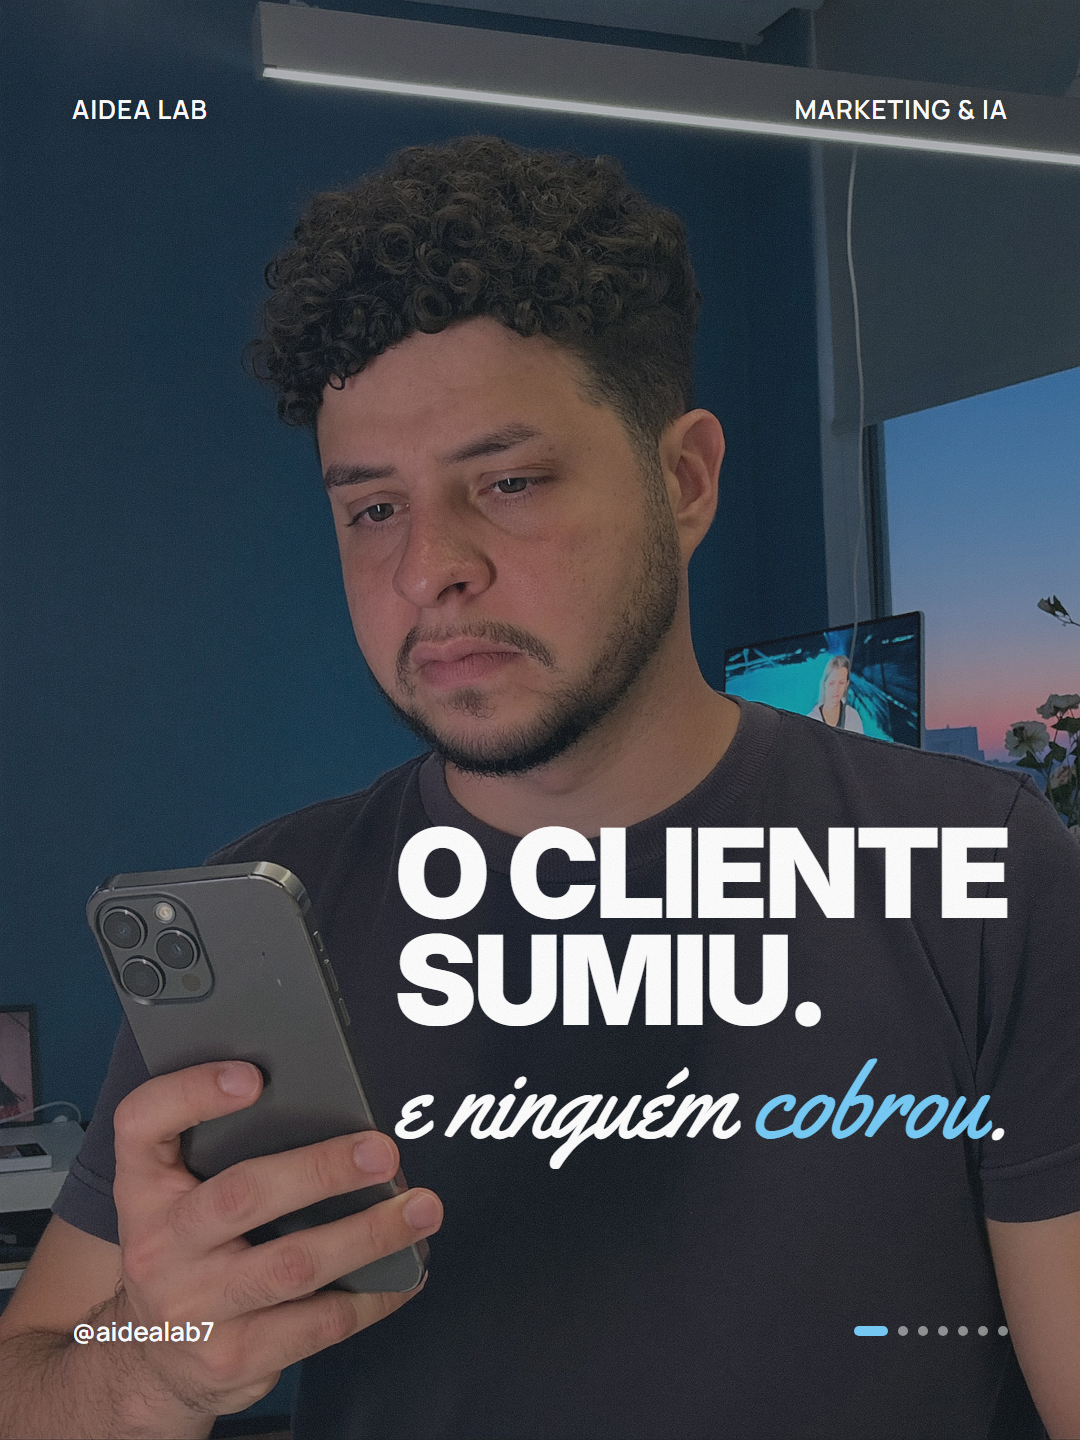
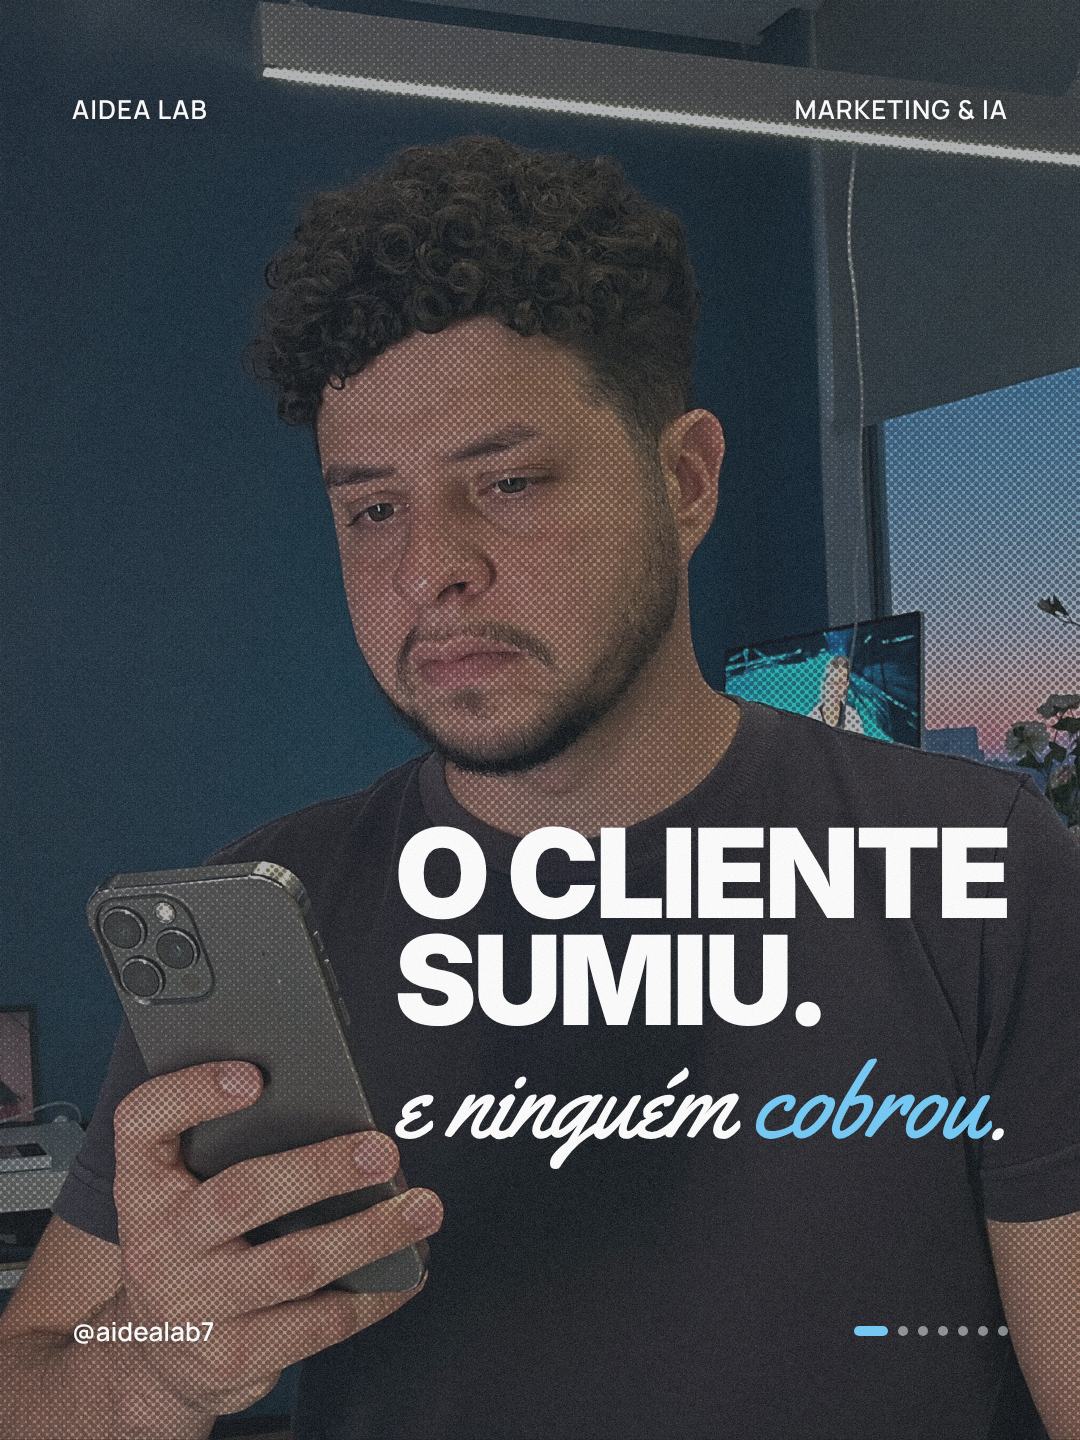
feat(aidealab): textura só na foto (hook halftone, CTA cloth), texto limpo
- motor/textura_foto.py: halftone e cloth (assets/pano.png em soft-light 55%, igual à
  engine otalogia); aplicar() na foto/recorte e aplicar_slide() com máscara de texto
  para slides já prontos
- render.py: "textura_foto" do tema aplicada na imagem e no recorte antes do texto
  (não mais no slide inteiro); tema aidealab: hook halftone, CTA cloth
- sync_fila_drive.py: aplica com máscara nos aprovados da FILA; pula o legado
  "halftone" (slide inteiro), que o workflow textura-foto-drive.yml corrige
  recuperando a revisão limpa no histórico do Drive (FILA e 04) e a fila do repo
- carrosséis do repo re-renderizados (capa e CTA)

Claude-Session: https://claude.ai/code/session_012KyAE6tAMb32gBy6Q61w6r

diff --git a/agente aidealab/automation/cloud/textura_foto_drive.py b/agente aidealab/automation/cloud/textura_foto_drive.py
@@ -1,0 +1,122 @@
+"""Refaz a textura do hook e do CTA nas pastas de 06-Aprovados-para-Postar/FILA e de 04-Carrosseis (aidealab), só na foto.
+
+Para workflow textura-foto-drive.yml (GitHub Actions, credenciais do Drive nos secrets). Por pasta:
+- metadata com "textura_foto" -> já feita, pula.
+- metadata com o legado "halftone": true (halftone no slide inteiro, texto junto) -> baixa do histórico do Drive a
+  última revisão do 1º e do último slide de antes da marca (modifiedTime do metadata.json - 5 min = versão limpa).
+- sem marca -> usa o arquivo atual.
+Rascunho de 04 que existe em clientes/aidealab/carrosseis/<slug>/png (renderizado com a textura_foto) sobe o PNG do
+repo. Senão aplica textura_foto.aplicar_slide (texto protegido por máscara) conforme "textura_foto" do tema, sobe como nova
+revisão do mesmo arquivo e grava "textura_foto" no metadata. A mesma imagem vai para a cópia na fila do repo
+(queue/FILA-SEMANA-1/02-carrossel/*, casada por carousel_id), que o workflow commita.
+Uso: textura_foto_drive.py [--dry-run]
+"""
+import io
+import json
+import sys
+import tempfile
+from datetime import datetime, timedelta
+from pathlib import Path
+
+AQUI = Path(__file__).resolve().parent
+REPO = AQUI.parents[2]
+sys.path.insert(0, str(AQUI))
+sys.path.insert(0, str(REPO / "motor"))
+from drive_helper import get_service  # noqa: E402
+from googleapiclient.http import MediaFileUpload, MediaIoBaseDownload  # noqa: E402
+from PIL import Image  # noqa: E402
+from textura_foto import aplicar_slide  # noqa: E402
+from upload_carrosseis import achar, filhos  # noqa: E402
+
+TEMA = REPO / "agente aidealab" / "clientes" / "aidealab" / "design-system" / "tema" / "tema.json"
+RAIZ = REPO / "agente aidealab" / "clientes" / "aidealab" / "carrosseis"
+QUEUE = REPO / "agente aidealab" / "skills" / "post-instagram" / "queue"
+DRY = "--dry-run" in sys.argv
+
+
+def baixar(req):
+    buf = io.BytesIO()
+    d = MediaIoBaseDownload(buf, req)
+    done = False
+    while not done:
+        _, done = d.next_chunk()
+    return buf.getvalue()
+
+
+def arquivos(svc, pasta):
+    r = svc.files().list(q=f"'{pasta}' in parents and trashed = false", fields="files(id,name)", pageSize=200).execute()
+    return {f["name"]: f["id"] for f in r["files"]}
+
+
+def limpa(svc, fid, corte):
+    revs = svc.revisions().list(fileId=fid, fields="revisions(id,modifiedTime)", pageSize=200).execute().get("revisions", [])
+    antes = [r for r in revs if r["modifiedTime"] < corte]
+    if not antes:
+        return None
+    return baixar(svc.revisions().get_media(fileId=fid, revisionId=max(antes, key=lambda r: r["modifiedTime"])["id"]))
+
+
+def main():
+    svc = get_service()
+    cfg = json.loads(TEMA.read_text(encoding="utf-8"))["textura_foto"]
+    fila = filhos(svc, filhos(svc, achar(svc, "Clientes/aidealab/06-Aprovados-para-Postar"))["FILA"])
+    fila.update({f"04/{k}": v for k, v in filhos(svc, achar(svc, "Clientes/aidealab/04-Carrosseis")).items()})
+    repo = {}
+    for mf in QUEUE.glob("FILA-SEMANA-*/02-carrossel/*/metadata.json"):
+        repo[json.loads(mf.read_text(encoding="utf-8")).get("carousel_id")] = mf.parent
+    tmp = Path(tempfile.mkdtemp())
+    feitos = 0
+    for nome, pid in sorted(fila.items()):
+        fs = arquivos(svc, pid)
+        if "metadata.json" not in fs:
+            continue
+        meta = json.loads(baixar(svc.files().get_media(fileId=fs["metadata.json"])).decode("utf-8-sig"))
+        if meta.get("textura_foto") or meta.get("postado") or not meta.get("slides"):
+            continue
+        legado = bool(meta.get("halftone"))
+        corte = None
+        if legado:  # o halftone e a marca no metadata foram gravados juntos: revisões de antes disso são limpas
+            mt = svc.files().get(fileId=fs["metadata.json"], fields="modifiedTime").execute()["modifiedTime"]
+            corte = (datetime.fromisoformat(mt.replace("Z", "+00:00")) - timedelta(minutes=5)).strftime("%Y-%m-%dT%H:%M:%S.000Z")
+        novos = {}
+        for papel, s in (("hook", meta["slides"][0]), ("cta", meta["slides"][-1])):
+            arq = s["arquivo"]
+            if not cfg.get(papel) or arq not in fs:
+                continue
+            render = RAIZ / nome[3:] / "png" / arq
+            if nome.startswith("04/") and render.exists():
+                novos[arq] = render
+                continue
+            dado = limpa(svc, fs[arq], corte) if legado else baixar(svc.files().get_media(fileId=fs[arq]))
+            if dado is None:
+                print(f"PULA     {nome}/{arq}: sem revisão de antes de {corte}")
+                continue
+            out = tmp / f"{nome.replace('/', '_')}_{arq}"
+            aplicar_slide(Image.open(io.BytesIO(dado)), cfg[papel]).save(out)
+            novos[arq] = out
+        if not novos:
+            continue
+        meta.pop("halftone", None)
+        meta["textura_foto"] = cfg
+        mj = tmp / f"{nome.replace('/', '_')}_metadata.json"
+        mj.write_text(json.dumps(meta, ensure_ascii=False, indent=2), encoding="utf-8")
+        print(f"TEXTURA  {nome}: {', '.join(novos)}" + (" (de revisão limpa)" if legado else ""))
+        if DRY:
+            continue
+        for arq, f in novos.items():
+            svc.files().update(fileId=fs[arq], media_body=MediaFileUpload(str(f), mimetype="image/png")).execute()
+        svc.files().update(fileId=fs["metadata.json"], media_body=MediaFileUpload(str(mj), mimetype="application/json")).execute()
+        d = repo.get(meta.get("carousel_id"))
+        if d:  # mesma imagem na fila do repo (a publicação lê de lá)
+            for arq, f in novos.items():
+                (d / arq).write_bytes(f.read_bytes())
+            rm = json.loads((d / "metadata.json").read_text(encoding="utf-8"))
+            rm.pop("halftone", None)
+            rm["textura_foto"] = cfg
+            (d / "metadata.json").write_text(json.dumps(rm, ensure_ascii=False, indent=2), encoding="utf-8")
+        feitos += 1
+    print(f"pastas atualizadas: {feitos}")
+
+
+if __name__ == "__main__":
+    main()

diff --git a/agente aidealab/automation/sync_fila_drive.py b/agente aidealab/automation/sync_fila_drive.py
@@ -11,7 +11,7 @@ A cada execução:
      POSTADOS no Drive, com post_id/postado_em no metadata. Itens postados ANTES de hoje
      saem da fila do repo e o id vai para _arquivo-postados.json (os de hoje ficam, porque
      o publish_next usa eles para garantir 1 post por dia).
-  Pastas de FILA ainda sem "halftone": true no metadata ganham a textura no hook e no CTA (no próprio Drive).
+  Pastas de FILA sem "textura_foto" no metadata ganham a textura só na foto do hook e do CTA (no próprio Drive).
   2. Pastas de FILA que ainda não estão na fila nem no arquivo de postados entram na fila
      do repo como FILA-SEMANA-1/02-carrossel/Dia<N>-<slug>, até MAX_PENDENTES pendentes.
 
@@ -38,15 +38,27 @@ DRY = "--dry-run" in sys.argv
 sys.path.insert(0, str(REPO / "motor"))
 
 
-def aplicar_halftone(d, meta):
-    """Textura halftone no hook (1º slide) e no CTA (último), padrão aidealab desde 2026-10-06. Idempotente via meta["halftone"]."""
-    if meta.get("halftone") or meta.get("postado") or meta.get("cliente", "aidealab") != "aidealab" or not meta.get("slides"):
+TEMA = REPO / "agente aidealab" / "clientes" / "aidealab" / "design-system" / "tema" / "tema.json"
+
+
+def aplicar_textura(d, meta):
+    """Textura só na foto do hook (1º slide) e do CTA (último), conforme "textura_foto" do tema (o texto fica limpo).
+    Idempotente via meta["textura_foto"]. Pastas com o legado meta["halftone"] (slide inteiro) ficam para o workflow
+    textura-foto-drive.yml, que recupera a versão limpa no histórico do Drive."""
+    if meta.get("textura_foto") or meta.get("halftone") or meta.get("postado") \
+            or meta.get("cliente", "aidealab") != "aidealab" or not meta.get("slides"):
         return False
     from PIL import Image
-    from filtro_halftone import halftone
-    for s in {meta["slides"][0]["arquivo"], meta["slides"][-1]["arquivo"]}:
-        halftone(Image.open(d / s)).save(d / s)
-    meta["halftone"] = True
+    try:
+        from textura_foto import aplicar_slide
+    except ImportError as e:  # scipy ausente no PC: não quebra a sincronização
+        print(f"AVISO    textura pulada ({e}); instale: pip install scipy")
+        return False
+    cfg = ler(TEMA).get("textura_foto") or {}
+    for papel, s in (("hook", meta["slides"][0]), ("cta", meta["slides"][-1])):
+        if cfg.get(papel):
+            aplicar_slide(Image.open(d / s["arquivo"]), cfg[papel]).save(d / s["arquivo"])
+    meta["textura_foto"] = cfg
     return True
 
 
@@ -118,12 +130,12 @@ def main():
             if not DRY:
                 shutil.move(str(d), str(POSTADOS / d.name))
 
-    # aprovados no Drive (FILA) ganham a textura halftone no hook e no CTA, para visualizar lá também
+    # aprovados no Drive (FILA) ganham a textura (só na foto) no hook e no CTA, para visualizar lá também
     for d in fila_drive.values():
         dm = ler(d / "metadata.json")
-        if not DRY and all((d / s["arquivo"]).exists() for s in dm.get("slides", [])) and aplicar_halftone(d, dm):
+        if not DRY and all((d / s["arquivo"]).exists() for s in dm.get("slides", [])) and aplicar_textura(d, dm):
             gravar(d / "metadata.json", dm)
-            print(f"HALFTONE {d.name} (Drive)")
+            print(f"TEXTURA  {d.name} (Drive)")
 
     # 2. aprovados novos entram na fila do repo
     vivos = [it for it in itens if not it.get("arquivado")]
@@ -147,7 +159,7 @@ def main():
             for s in meta["slides"]:
                 shutil.copy2(d / s["arquivo"], alvo / s["arquivo"])
             meta.update(postado=False, status="aprovado")
-            aplicar_halftone(alvo, meta)
+            aplicar_textura(alvo, meta)
             gravar(alvo / "metadata.json", meta)
         prox += 1
         pendentes += 1

diff --git a/motor/textura_foto.py b/motor/textura_foto.py
@@ -1,0 +1,80 @@
+"""
+Texturas aplicadas SÓ na foto (o texto do motor fica limpo), por papel do slide, configuradas no tema.json:
+  "textura_foto": {"hook": "halftone", "cta": "cloth"}
+- halftone: filtro_halftone.halftone (retícula de impresso)
+- cloth: trama de tecido assets/pano.png em soft-light 55% (a mesma da engine otalogia, --tex-pano)
+
+O render.py aplica na `imagem` e no `recorte` (alfa preservado) antes de desenhar o texto.
+Para slides já renderizados (fila/Drive, sem as fotos de origem), `aplicar_slide` protege o texto com uma máscara
+de cor + forma (branco, ciano quente, pílula do CTA) e texturiza o resto.
+
+Uso: python textura_foto.py <halftone|cloth> <entrada> [saida] [--slide]   (--slide = PNG final com texto)
+"""
+import sys
+from pathlib import Path
+
+import numpy as np
+from PIL import Image
+from scipy import ndimage
+
+from filtro_halftone import halftone
+
+PANO = Path(__file__).resolve().parent / "assets" / "pano.png"
+
+
+def cloth(im, opac=0.55):
+    b = np.asarray(im.convert("RGB")).astype(float) / 255
+    s = np.asarray(Image.open(PANO).convert("L").resize(im.size, Image.BILINEAR)).astype(float)[..., None] / 255
+    d = np.where(b <= 0.25, ((16 * b - 12) * b + 4) * b, np.sqrt(b))
+    sl = np.where(s <= 0.5, b - (1 - 2 * s) * b * (1 - b), b + (2 * s - 1) * (d - b))  # soft-light (W3C)
+    return Image.fromarray(((b + opac * (sl - b)).clip(0, 1) * 255).astype("uint8"))
+
+
+FILTROS = {"halftone": halftone, "cloth": cloth}
+
+
+def aplicar(im, tipo):
+    """Textura na foto; RGBA (recorte) mantém o alfa."""
+    rgba = im.mode == "RGBA"
+    out = FILTROS[tipo](im.convert("RGB"))
+    if rgba:
+        out = out.convert("RGBA")
+        out.putalpha(im.split()[-1])
+    return out
+
+
+def mascara_texto(im):
+    """Pixels de texto do motor num slide renderizado: branco/ciano quente em formas de letra (<= 260u de altura) e a
+    pílula do CTA; dilatada 3px. Áreas claras grandes da foto (céu, camiseta) não entram."""
+    a = np.asarray(im.convert("RGB")).astype(int)
+    branco = (a.min(2) > 225) & (np.ptp(a, axis=2) < 28)
+    quente = np.abs(a - [110, 201, 247]).sum(2) < 60
+    cand = branco | quente
+    lab, n = ndimage.label(cand)
+    if not n:
+        return cand
+    areas = ndimage.sum(cand, lab, range(1, n + 1))
+    keep = np.zeros(n + 1, bool)
+    for i, (sl, ar) in enumerate(zip(ndimage.find_objects(lab), areas), 1):
+        h, w = sl[0].stop - sl[0].start, sl[1].stop - sl[1].start
+        letra = h <= 260 and w <= 1000 and ar >= 6
+        pilula = 60 <= h <= 160 and w >= 200 and ar / (h * w) > 0.85 and w / h > 2.2
+        keep[i] = letra or pilula
+    return ndimage.binary_dilation(keep[lab], iterations=3)
+
+
+def aplicar_slide(im, tipo):
+    im = im.convert("RGB")
+    w = ndimage.gaussian_filter(mascara_texto(im).astype(float), 1.0)[..., None]
+    t = np.asarray(FILTROS[tipo](im)).astype(float)
+    return Image.fromarray((t * (1 - w) + np.asarray(im).astype(float) * w).astype("uint8"))
+
+
+if __name__ == "__main__":
+    args = [x for x in sys.argv[1:] if x != "--slide"]
+    if len(args) < 2 or args[0] not in FILTROS:
+        sys.exit(__doc__)
+    im = Image.open(args[1])
+    out = aplicar_slide(im, args[0]) if "--slide" in sys.argv else aplicar(im, args[0])
+    out.save(args[2] if len(args) > 2 else args[1])
+    print("OK:", args[2] if len(args) > 2 else args[1])

diff --git a/motor/render.py b/motor/render.py
@@ -16,12 +16,13 @@ Setup: pip install playwright pillow && playwright install chromium
 import json
 import os
 import sys
+import tempfile
 from pathlib import Path
 
 from PIL import Image
 from playwright.sync_api import sync_playwright
 
-from filtro_halftone import halftone
+from textura_foto import aplicar
 
 W, H = 1080, 1440
 AQUI = Path(__file__).resolve().parent
@@ -52,18 +53,26 @@ def main():
     data = json.loads(json_path.read_text(encoding="utf-8"))
     out_dir = Path(args[1]) if len(args) > 1 else json_path.parent / data["id"]
 
-    # imagem relativa ao JSON -> URI absoluta file:///; null continua null
-    for s in data["slides"]:
+    # imagem relativa ao JSON -> URI absoluta file:///; null continua null.
+    # tema "textura_foto" {"hook": tipo, "cta": tipo}: textura só na foto e no recorte (o texto fica limpo)
+    n = len(data["slides"])
+    tex = {1: tema.get("textura_foto", {}).get("hook"), n: tema.get("textura_foto", {}).get("cta")}
+    tmp = Path(tempfile.mkdtemp(prefix="textura_foto_"))
+    for i, s in enumerate(data["slides"], 1):
         for k in ("imagem", "recorte"):
             if s.get(k):
-                s[k] = (json_path.parent / s[k]).resolve().as_uri()
+                f = (json_path.parent / s[k]).resolve()
+                if tex.get(i):
+                    f2 = tmp / f"{i}_{k}.png"
+                    aplicar(Image.open(f), tex[i]).save(f2)
+                    f = f2
+                s[k] = f.as_uri()
         # T5: print do site, também relativo ao JSON
         ref = s.get("referencia")
         if ref and ref.get("print"):
             ref["print"] = (json_path.parent / ref["print"]).resolve().as_uri()
 
     url = (AQUI / "carrossel.html").as_uri()
-    n = len(data["slides"])
     shots = []
     pngs = []
     with sync_playwright() as p:
@@ -107,12 +116,9 @@ def main():
             browser.close()
 
     out_dir.mkdir(parents=True, exist_ok=True)
-    ht = {i for k, i in (("hook", 1), ("cta", n)) if k in tema.get("halftone", [])}
     for i, b in enumerate(shots, 1):
         png = out_dir / f"slide-{i:02d}.png"
         png.write_bytes(b)
-        if i in ht:
-            halftone(Image.open(png)).save(png)
         pngs.append(png)
     for png in pngs:
         assert Image.open(png).size == (W, H), f"{png} fora de {W}x{H}"

diff --git a/motor/filtro_halftone.py b/motor/filtro_halftone.py
@@ -1,7 +1,7 @@
 """
 Filtro "impresso halftone" (ref. post HALFTONE TEXTURE, aprovado 2026-10-06): retícula AM fina a 45° modulando a
 luminância (média zero: o tom da foto se mantém), pretos levantados, leve dessaturação/aquecimento e grão.
-O render aplica no slide inteiro do hook e do CTA quando o tema.json tem "halftone": ["hook", "cta"].
+Usado por textura_foto.py (só na foto do hook, pelo "textura_foto" do tema.json).
 
 Uso: python filtro_halftone.py <entrada> [saida]   (sem saida = sobrescreve)
 """

diff --git a/agente aidealab/clientes/aidealab/design-system/templates/templates.md b/agente aidealab/clientes/aidealab/design-system/templates/templates.md
@@ -60,5 +60,5 @@ quanto for preciso.
 
 - Slide 3: `"textura": "grain"`, só grão forte sobre o fundo liso, sem gradiente nem brilho de cor (nada de spotlight ciano ou rosa). O `compor.py` marca sozinho.
 - Hook e CTA com personagem: título bold ATRÁS DO TOPO DA CABEÇA (cabelo/testa; capa de revista), nunca atrás do rosto nem do tronco/costas, e a frase handwritten (emocao) NA FRENTE do sujeito, sobre o corpo e nunca no rosto; o `compor.py` escolhe sozinho sempre que houver folga acima da cabeça (topo da cabeça em ~1/3 do quadro).
-- Hook (slide 1) e CTA (último): textura halftone de impresso (`motor/filtro_halftone.py`), sempre. O `render.py` aplica sozinho pelo `"halftone": ["hook", "cta"]` do `tema.json`; o `sync_fila_drive.py` aplica nos aprovados que entram na fila (marca `"halftone": true` no metadata).
+- Textura só na FOTO (o texto fica sempre limpo), pelo `"textura_foto"` do `tema.json`: hook (slide 1) = `halftone` (`motor/filtro_halftone.py`), CTA (último) = `cloth`, a trama de tecido `motor/assets/pano.png` em soft-light 55% (a mesma da engine otalogia). O `render.py` aplica na `imagem` e no `recorte` antes de desenhar o texto (`motor/textura_foto.py`); o `sync_fila_drive.py` aplica nos aprovados que entram na FILA (slide pronto: máscara protege o texto; marca `"textura_foto"` no metadata).
 - Demais slides de lista e o de conclusão: `"textura": "led"`.
